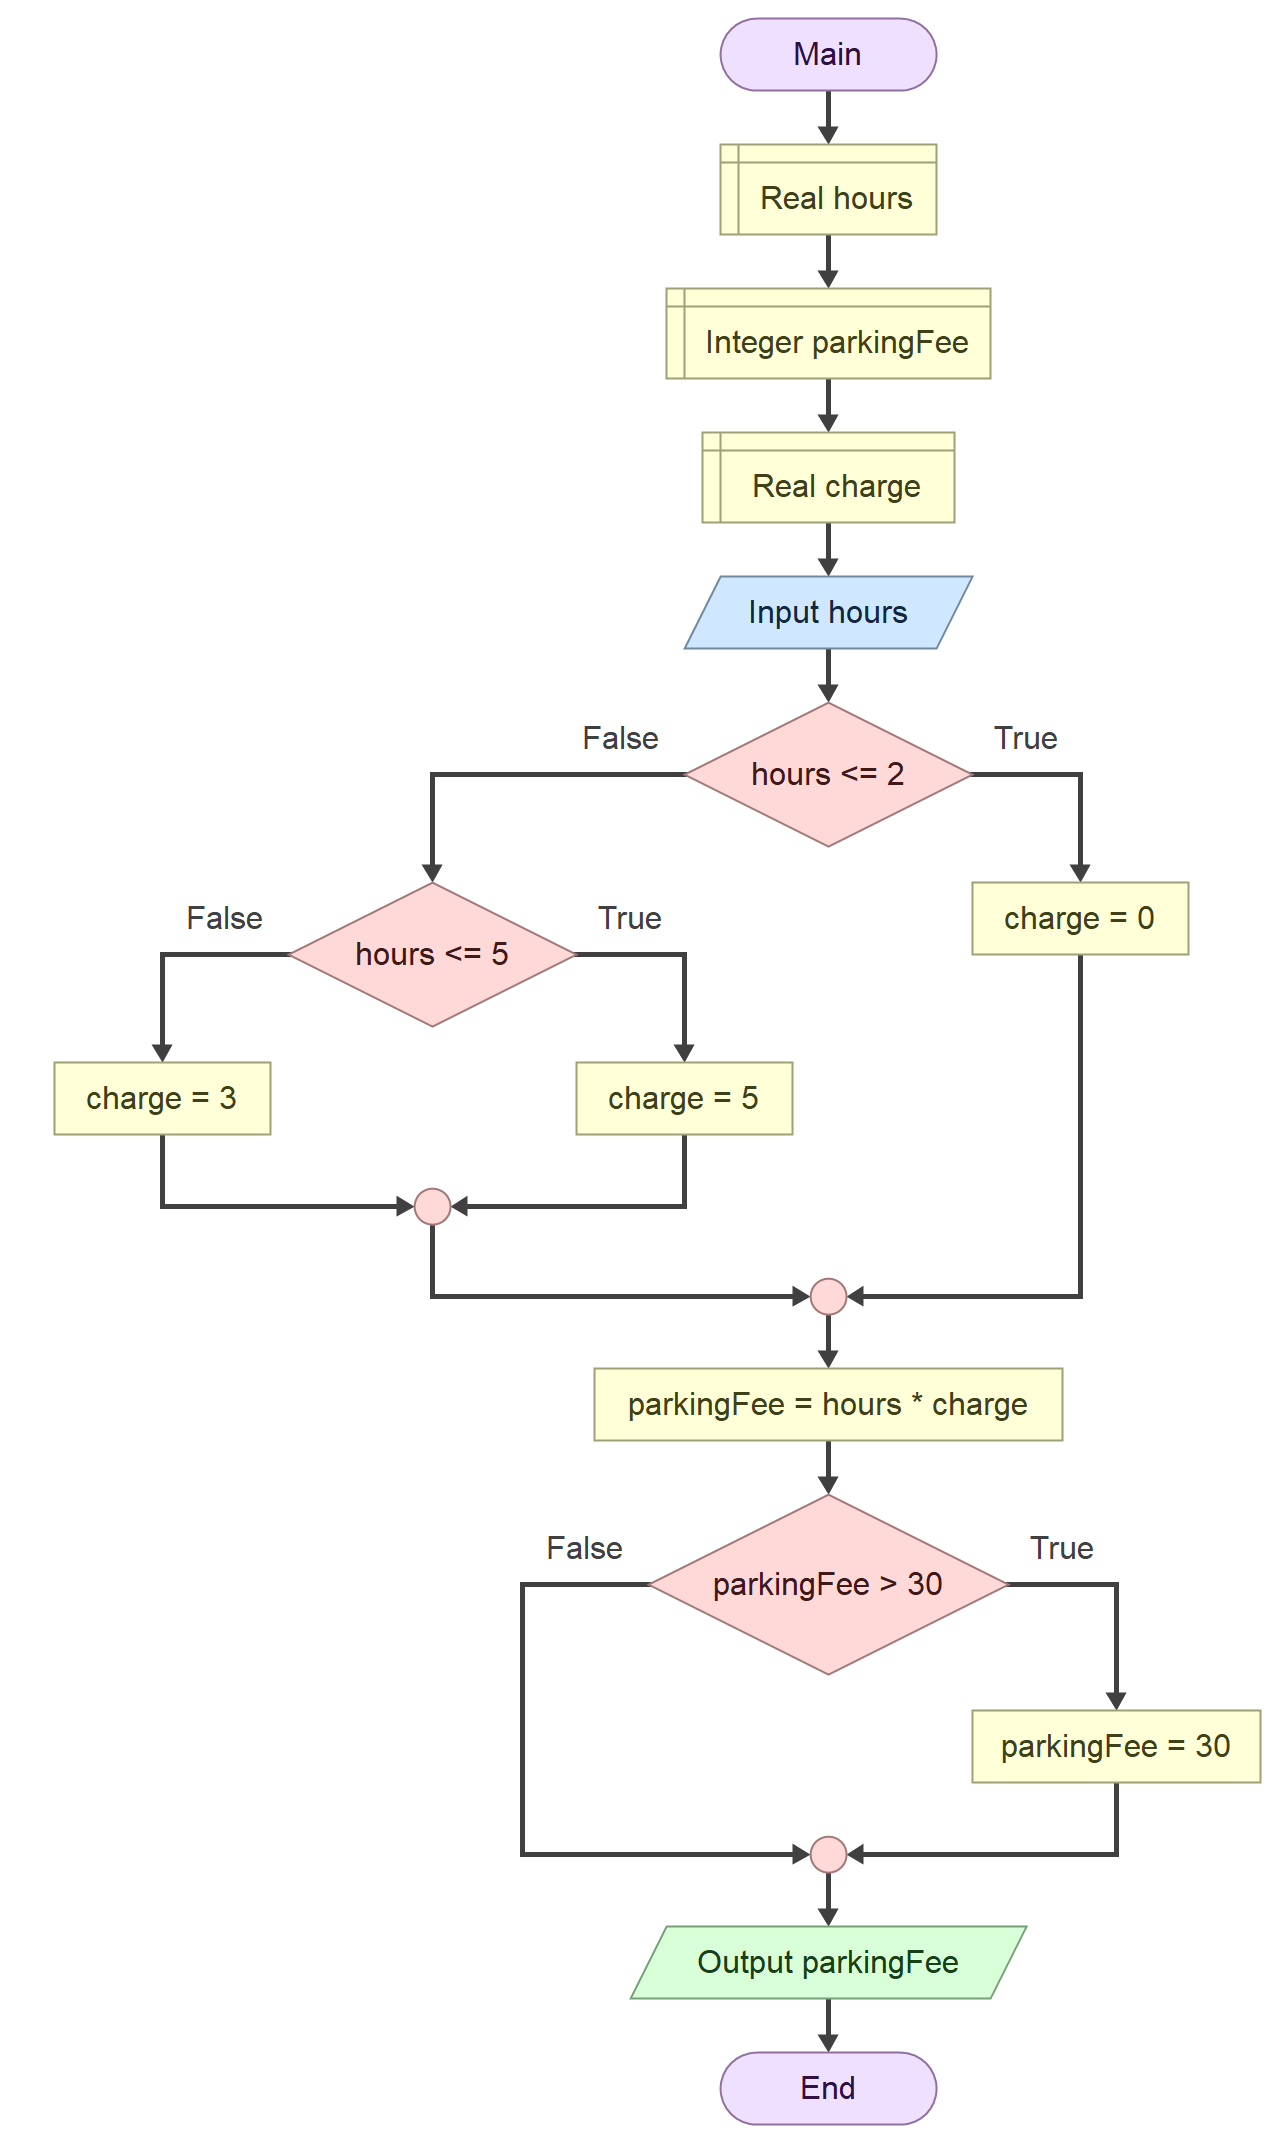
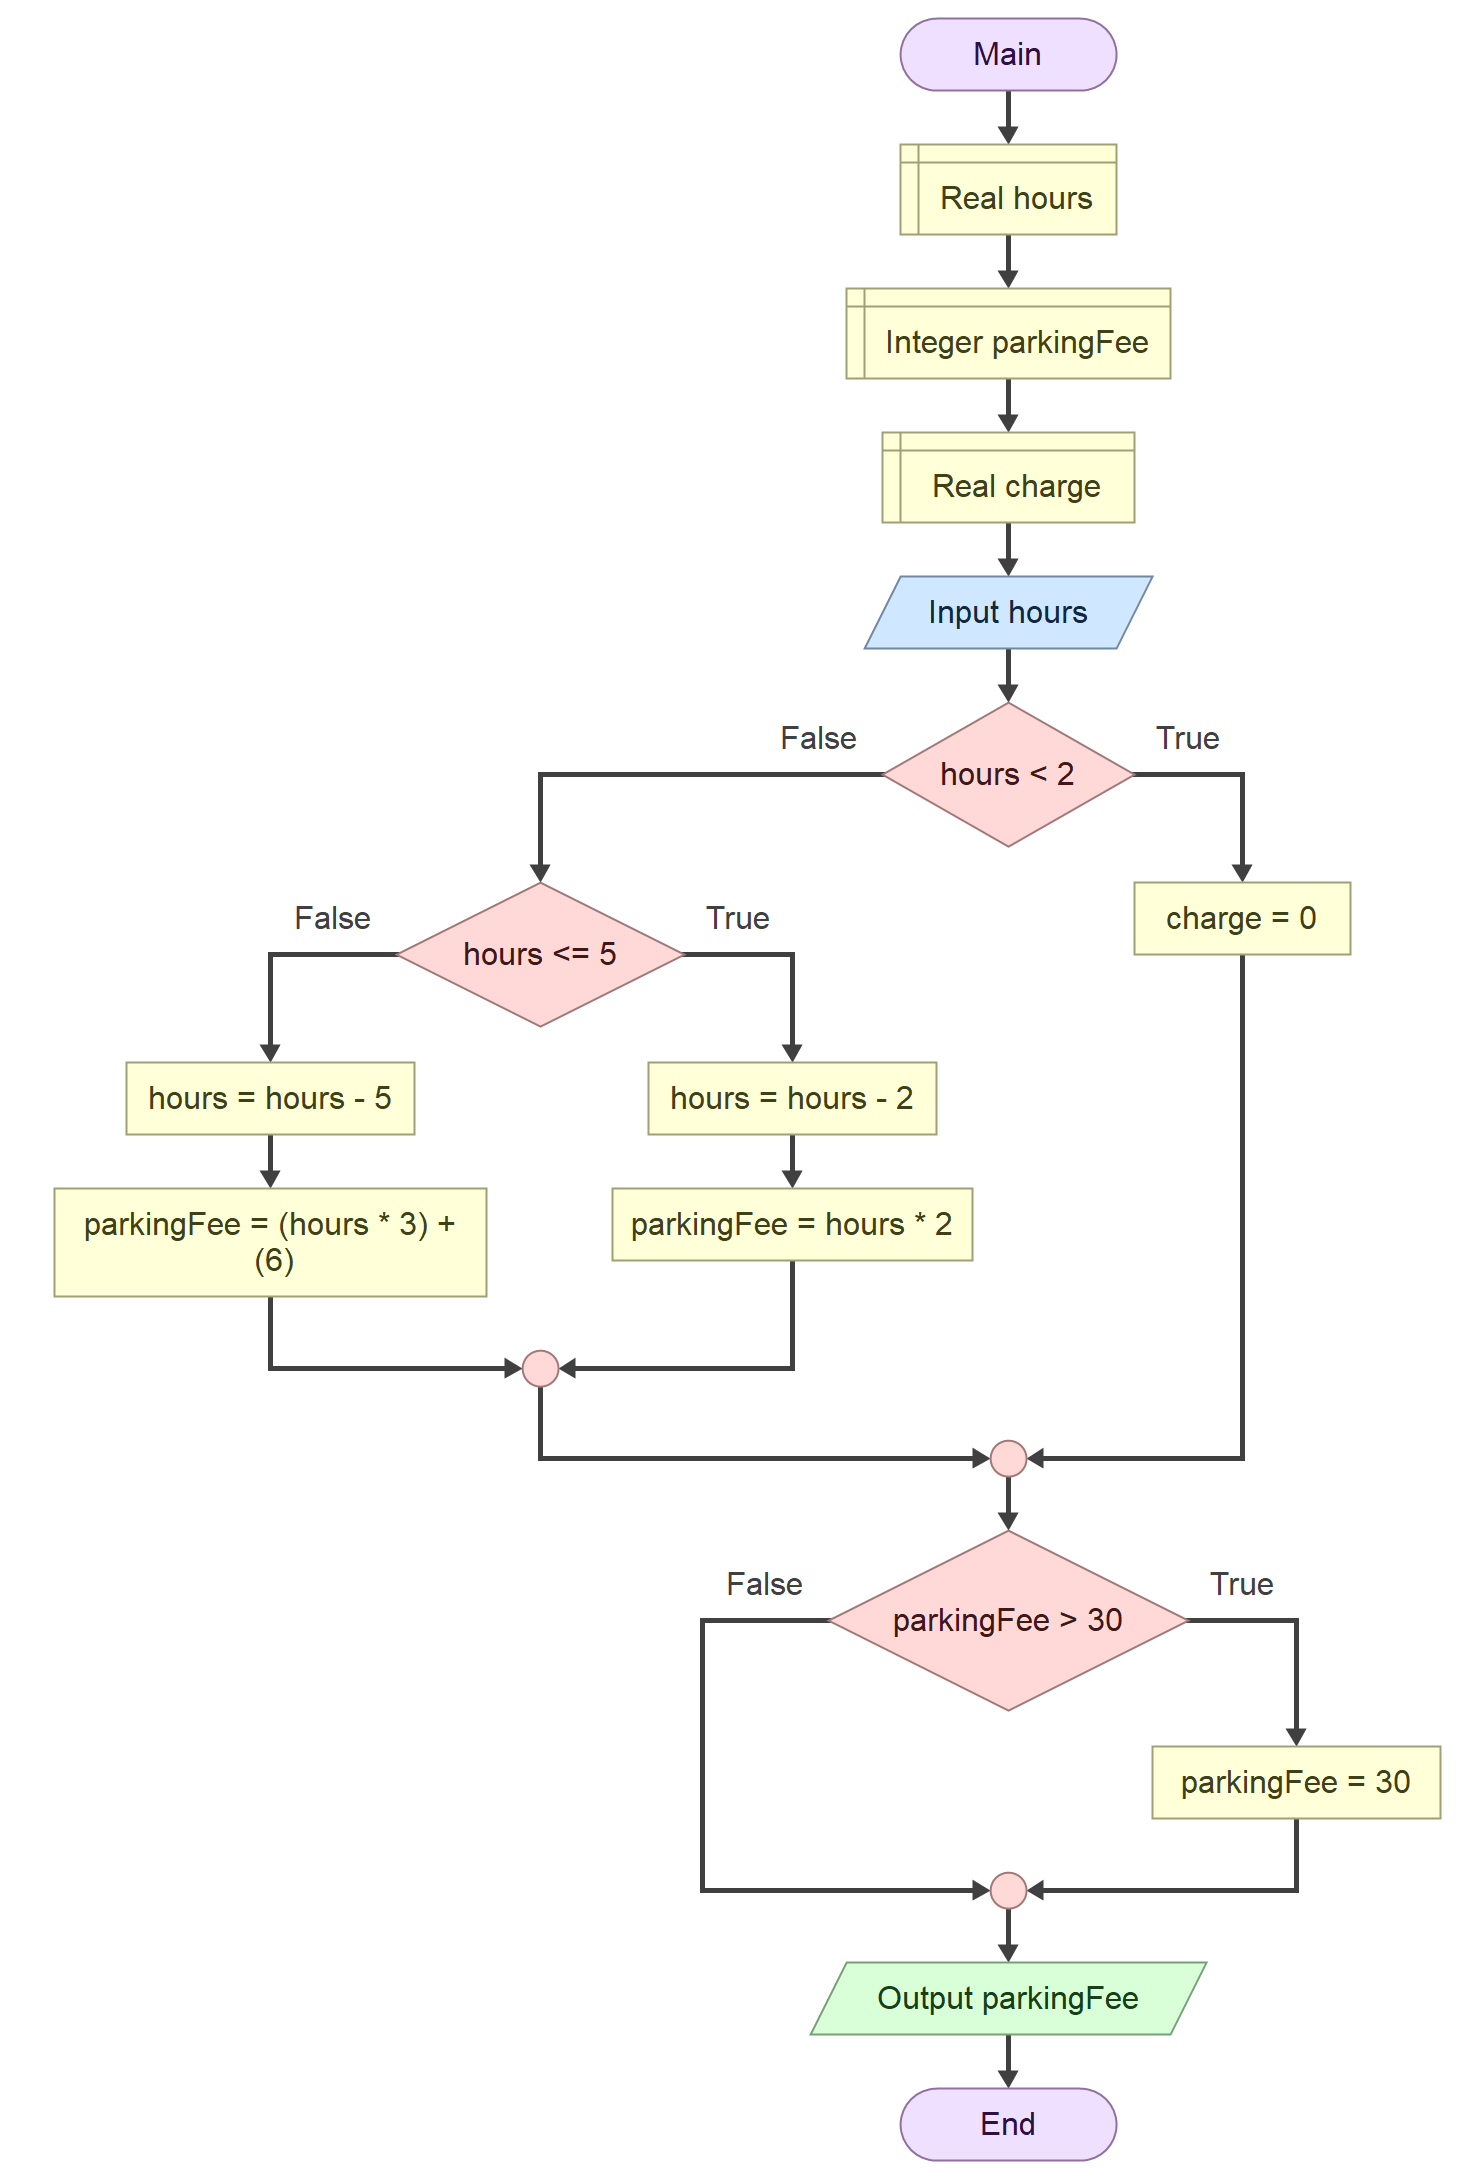
aupdate ex3

Changed region(s): [[0.0305, 0.0, 1.0, 1.0], [0.3964, 0.7392, 0.4269, 0.8623]]

diff --git a/labs/lab04/exercise4/lab-4-3.py b/labs/lab04/exercise4/lab-4-3.py
@@ -1,0 +1,13 @@
+hours = float(input())
+if hours < 2:
+    charge = 0
+else:
+    if hours <= 5:
+        hours = hours - 2
+        parkingFee = hours * 2
+    else:
+        hours = hours - 5
+        parkingFee = hours * 3 + 6
+if parkingFee > 30:
+    parkingFee = 30
+print(parkingFee)

diff --git a/labs/lab04/exercise4/lab-4-4.py b/labs/lab04/exercise4/lab-4-4.py
@@ -1,6 +1,4 @@
-print("Input weight")
 weight = float(input())
-print("Input Ticket Price")
 ticketPrice = float(input())
 if weight == 0:
     finalPrice = ticketPrice - 10
@@ -8,6 +6,6 @@ else:
     if weight <= 15:
         pass
     else:
-        exWeight = (weight - 15) * 4
+        exWeight = weight - 15 * 4
         finalPrice = exWeight + ticketPrice
 print(finalPrice)